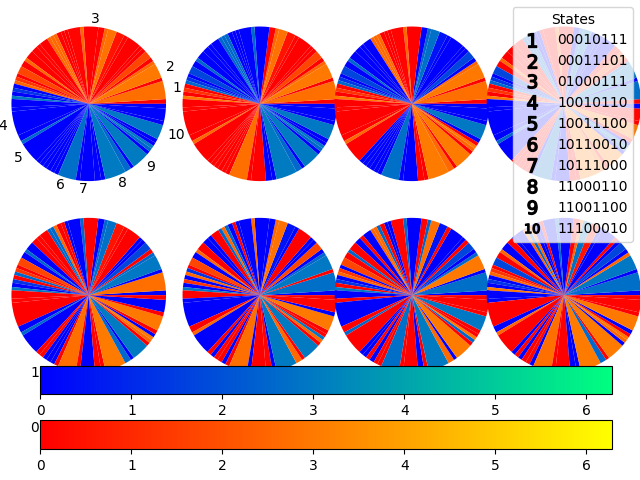
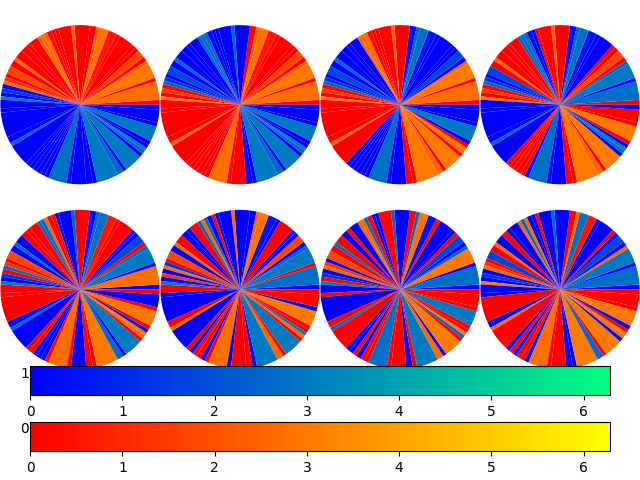
Added a limit for the amount of labeled wedges

diff --git a/plotter.py b/plotter.py
@@ -91,11 +91,12 @@ def plot_state(state: np.ndarray):
     cmap_1 = plt.get_cmap('winter')
     pie_labels = [np.binary_repr(i, 8) for i in range(len(state))]
 
-    relevant_labels = [pie_label if amplitudes[index] > 0.6 * max_amplitude else "" for index, pie_label in
+    relevant_labels = [pie_label if amplitudes[index] > 0.1 * max_amplitude else "" for index, pie_label in
                        enumerate(pie_labels)]
     wedge_labels = []
     legend_labels = []
     wedge_number = 1
+    wedge_limit = 20
     for pie_label in relevant_labels:
         if pie_label:
             wedge_labels.append(f"{wedge_number}")
@@ -104,6 +105,8 @@ def plot_state(state: np.ndarray):
             wedge_number += 1
         else:
             wedge_labels.append("")
+    if wedge_number > wedge_limit:
+        wedge_labels = None
 
     norm_phase = plt.Normalize(vmin=0, vmax=2 * np.pi)
     for i in range(2):
@@ -123,8 +126,9 @@ def plot_state(state: np.ndarray):
                           orientation='horizontal', pad=0.01)
     cbar_0.ax.set_ylabel('0', rotation=0)
     cbar_1.ax.set_ylabel('1', rotation=0)
-    fig.legend(title="States", handles=legend_labels)
-    return fig
+    if wedge_number <= wedge_limit:
+        fig.legend(title="States", handles=legend_labels)
+    return fig, relevant_labels
 
 
 def create_filename(group: h5py.Group, parameters: dict[str, int], plot_name: str):
